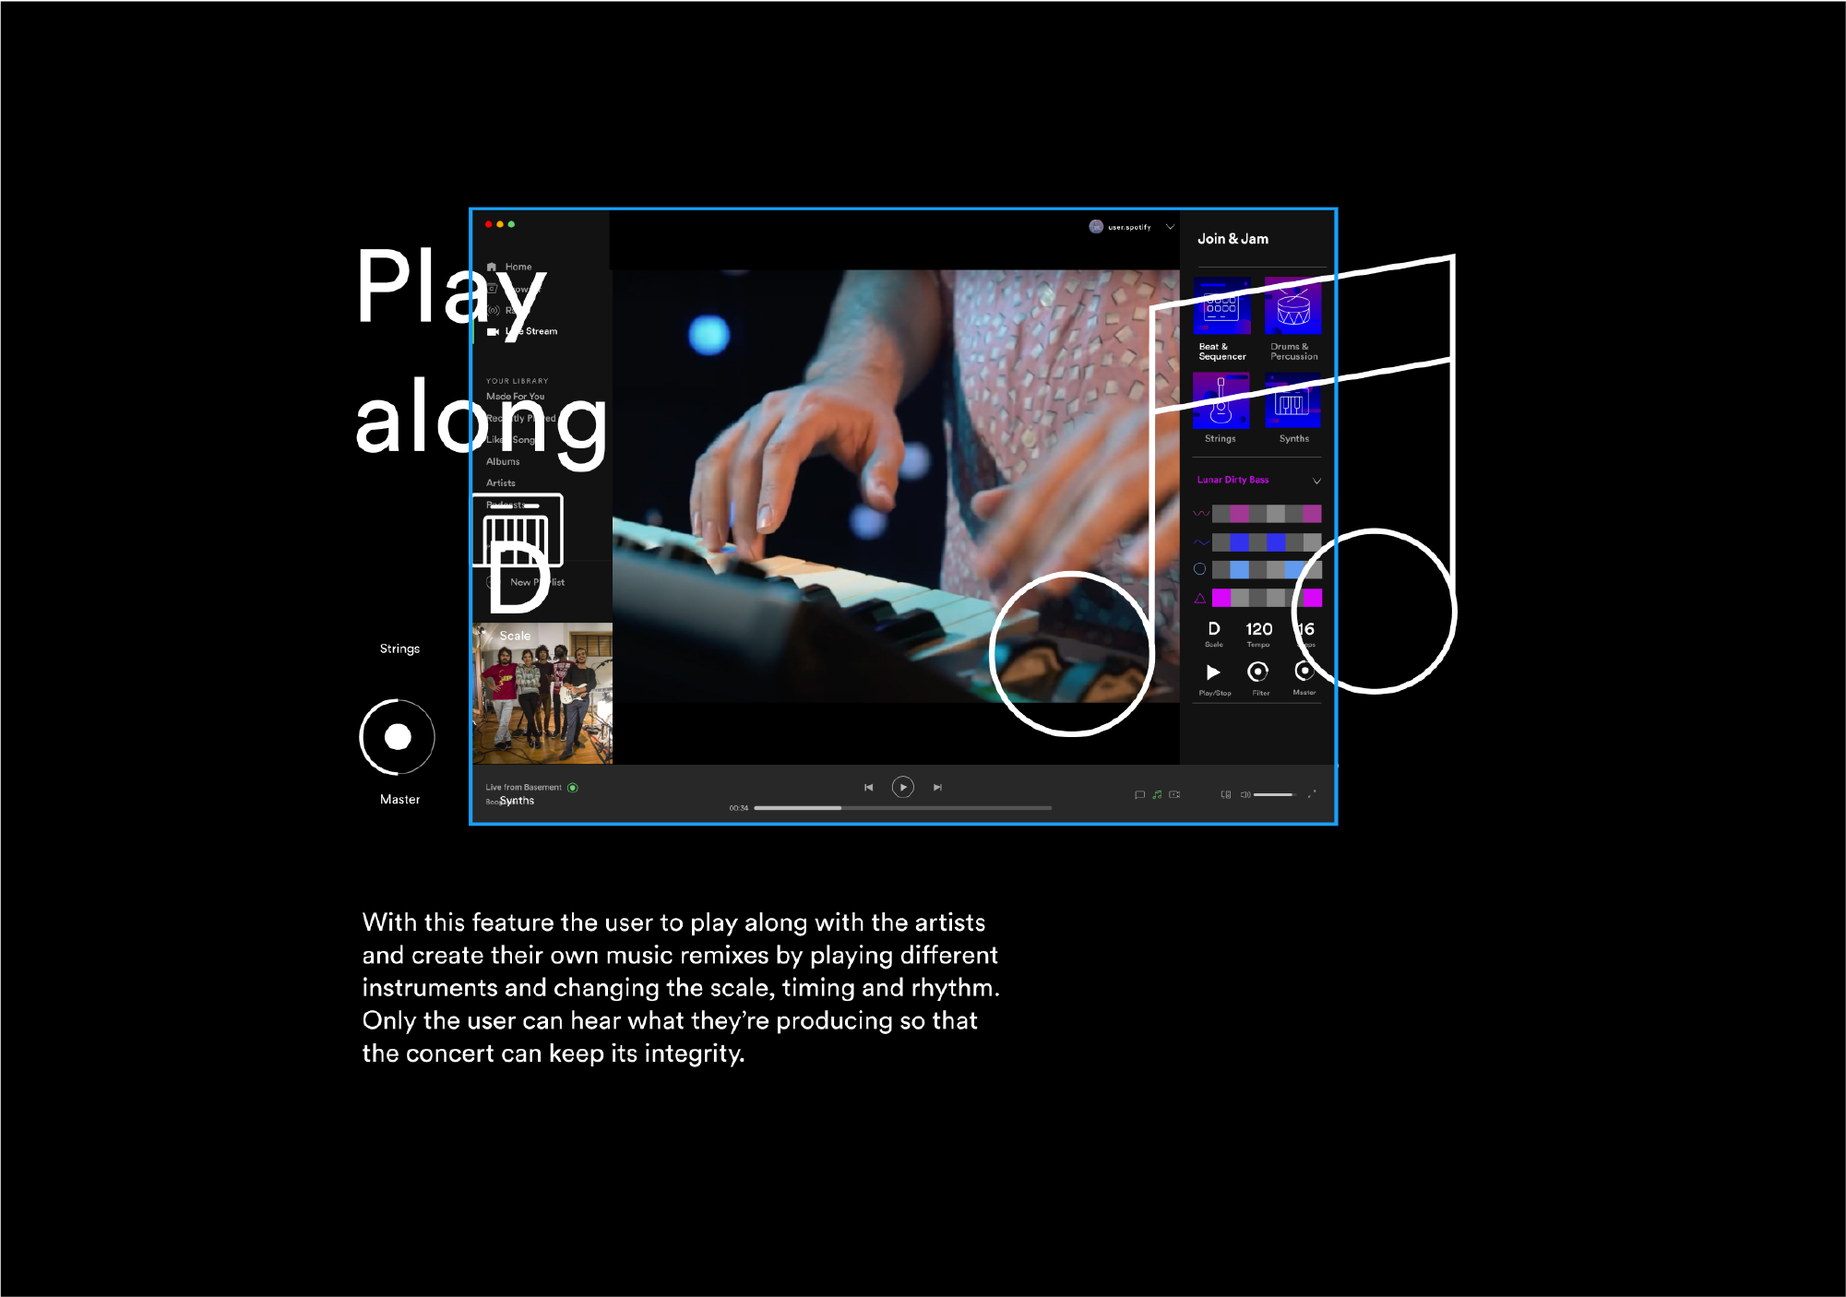
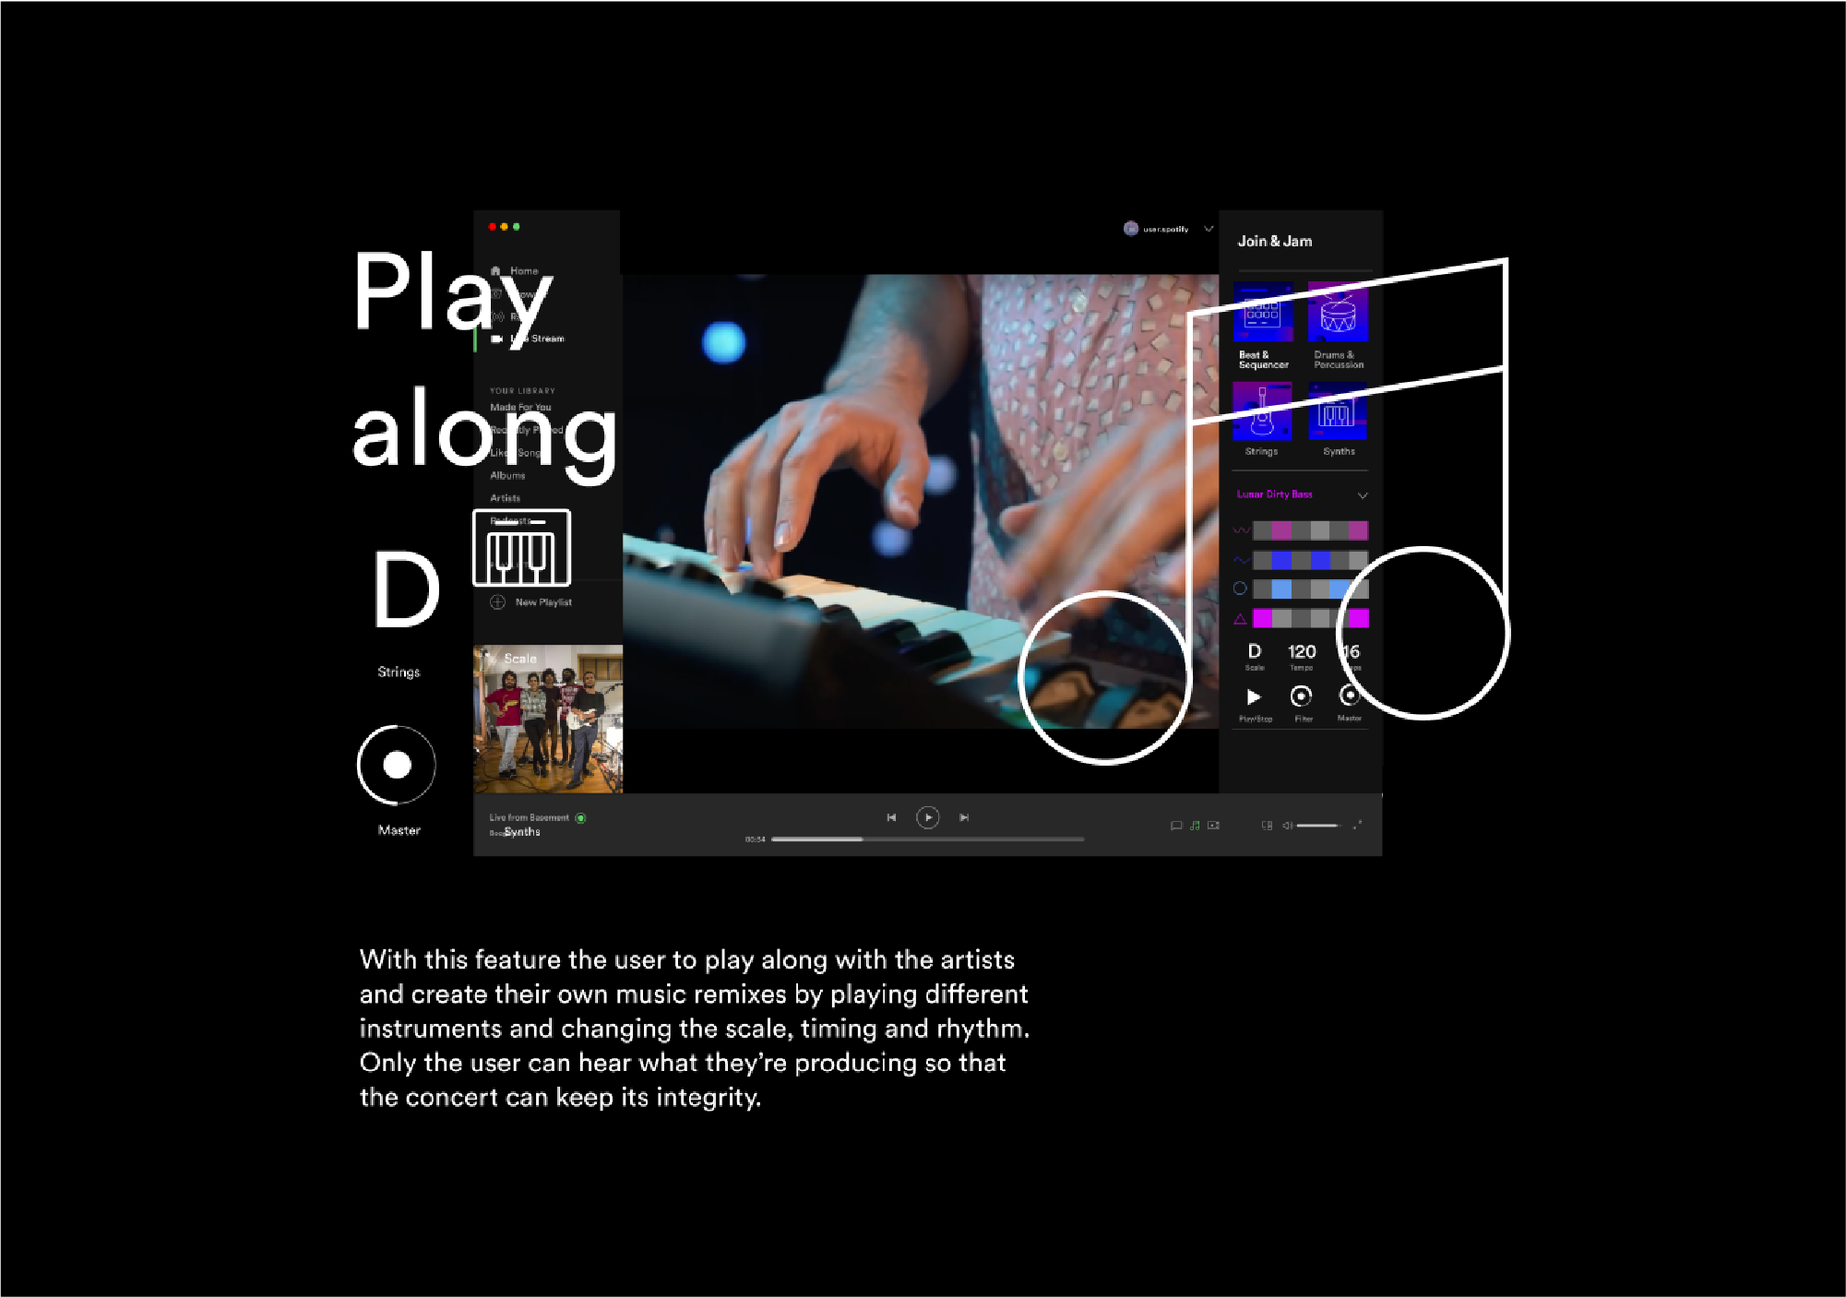
donut and spotify

Changed region(s): [[0.1859, 0.1529, 0.8366, 0.6728], [0.1859, 0.7034, 0.5577, 0.8563]]

diff --git a/_projects/spotify02.html b/_projects/spotify02.html
@@ -7,7 +7,74 @@ tags: Spotify
 description: Welcome to spotify streaming video feature. With this project we created a hub of online concerts and experiences with features that create unique moments putting the audience and artist closer.
 ---
 
-<figure>
-    <img src="../assets/img/alumni01.1.jpg" alt="alumni pages">
-    <figcaption>The goal of this project was to improve the experience of being a member of the Faculty of Fine-Arts of the University of Lisbon Alumni community. We, as a team of 5, worked together for a month to develop solutions for this segment within the faculty website.</figcaption>
-</figure>
+<div class="spotify wrapper">
+    <figure>
+        <img src="{{ "/assets/img/spotify02.jpg" | relative_url }}" alt="spotify tumbnail">
+        <figcaption>
+            <p>Spotify Streaming the feature of the future.</p>
+        </figcaption>
+    </figure>
+    <section class="spotify_section">
+        <div class="spotify_content">
+            <h2>About the project</h2>
+            <p>Welcome to spotify streaming video feature. With this project we created a hub of online concerts and experiences with features that create unique moments putting the audience and artist closer.</p>
+            <p><strong>My role:</strong> UI and UX Designer with especial focus on User Research</p>
+            <p><strong>Other team members:</strong> Marcelo Vendramel e Patrícia Custódio</p>
+        </div>
+        <div class="spotify_content">
+            <h2>Challenge and objective</h2>
+            <p>With the pandemic all concerts had to be cancelled. Streaming videos appeared as an alternative for artists to create more connection with the audience and also as
+            an additional source of income.</p>
+            <p>One line concerts and physical are totally different experiences so it’s positive to create a new feature in the area of streaming and also the connection between the audience and the artists can’t be replicated. But should be rethinked for sure.</p>
+            <p>Spotify is a one stop shop for streaming music and already has lists of concerts with external links to buy tickets. Spotify doesn’t only have music but also podcasts adding streaming would be a new form of entertainment that would add to their mission of unlocking the potential of human creativity and spirit of discovery.</p>
+        </div>
+        <div class="spotify_content">
+            <h2>Process</h2>
+            <div class="analysis">
+                <h3>Analysis and Discovery</h3> 
+                <p>We analysed more than 20 websites to help us understand the market and the users, their needs and goals and also we did some interviews and user flows.</p>
+                <p>We took all the research and separated it by themes to understand the main problems and how to get to the solution and developed some personas and responded to how might we’s that helped us get some good solutions.</p>
+            </div>
+            <div class="ideation">
+                <h3>Ideation</h3>
+                <p>After we analysed how to put the streams menu inside Spotify was time to explore all the potential of this medium.</p>
+                <ul>
+                    <li><strong>New formats:</strong>Clubs and Coffees, Meet and Great and Join and Jam.</li>
+                    <li><strong>The Chat:</strong>Allows the user to connect with other people that are watching the same experience and also with the artist. It creates a more intimate experience and enables them to express their feelings and thoughts live.</li>
+                    <li><strong>The PlayAlong:</strong>With this feature the user can play along with the artists and create their own music remixes by playing different instruments and changing the scale, timing and rhythm. Only the user can hear what they’re producing so that the concert can keep its integrity.</li>
+                    <li><strong>The Multi Cameras:</strong>In a normal concert setting fans are constrained by the site that they purchase. With the Multi-Cameras system they can change viewpoints and perspectives in the building. They can be closer to the singer, paddle down with the drummer or observe closely that one amazing guitar solo from their favorite musician.</li>
+                </ul>
+            </div>
+        </div>
+        <div class="spotify_content">
+            <h2>Final Soluction</h2>
+            <p>Streams: The Streams homepage has a menu with all the new formats.  We also added a video on top to make the page more dynamic and to encourage the user to explore more. We added a list of recommendations for most popular experiences like concerts or meet & greats.</p>
+            <p><strong>Virtual Concerts:</strong>Like the streams page we also added a video on the top alongside, filters, list of past popular concerts with a preview that users can rewatch, list of upcoming virtual concerts.</p>
+            <p><strong>Concerts:</strong>During the concert  the user has the option to watch it full screen and use the new features: chat, play along and multi-camera view.</p>
+            <p><strong>Payment:</strong>In the payment section we ask the user to choose the currency, number of tickets and the email where they want to receive confirmation of purchase. We also added cards with the different types of tickets so that the user can easily compare them.</p>
+            <p><strong>My tickets:</strong>Inside the profile we added the My Tickets page where the user can keep track of the tickets bought for upcoming and previous events. If the artist makes it possible the audience can rewatch a previous show.</p>
+    </section>
+    <section class="galery">
+        <h2>Galery</h2>
+        <figure>
+            <img src="{{ "/assets/img/spotify02.1.png" | relative_url }}" alt="spotify formats">
+            <figcaption>Spotify new formats.</figcaption>
+        </figure>
+        <figure>
+            <img src="{{ "/assets/img/spotify02.2.png" | relative_url }}" alt="spotify playalong feature">
+            <figcaption>Play-along feature</figcaption>
+        </figure>
+        <figure>
+            <img src="{{ "/assets/img/spotify02.3.png" | relative_url }}" alt="spotify chat feature">
+            <figcaption>
+                <p>Chat feature</p>
+            </figcaption>
+        </figure>
+        <figure>
+            <img src="{{ "/assets/img/spotify02.4.png" | relative_url }}" alt="spotify multicameras feature">
+            <figcaption>
+                <p>Multi-cameras feature.</p>
+            </figcaption>
+        </figure>
+    </section>
+</div>    

diff --git a/_projects/donut03.html b/_projects/donut03.html
@@ -7,7 +7,74 @@ tags: Donut
 description: This project development intends to create an interface, for both mobile and desktop aiming to promote and sell a specific product. The methodologies used seek to develop a practical, intuitive solution and provide a positive experience for the user.
 ---
 
-<figure>
-    <img src="../assets/img/alumni01.1.jpg" alt="alumni pages">
-    <figcaption>The goal of this project was to improve the experience of being a member of the Faculty of Fine-Arts of the University of Lisbon Alumni community. We, as a team of 5, worked together for a month to develop solutions for this segment within the faculty website.</figcaption>
-</figure>
+<div class="donut wrapper">
+    <figure>
+        <img src="{{ "/assets/img/donut03.jpg" | relative_url }}" alt="donut worry tumbnail">
+        <figcaption>
+            <p>Donut Worry the app that will make your day a little sweeter.</p>
+        </figcaption>
+    </figure>
+    <section class="donut_section">
+        <div class="donut_content">
+            <p>This project development intends to create an interface, for both mobile and desktop aiming to promote and sell a specific product.</p>
+            <p>The methodologies used seek to develop a practical, intuitive solution and provide a positive experience for the user</p>
+            <p><strong>My role:</strong> UI and UX Designer</p>
+        </div>
+        <div class="donut_content">
+            <h2>Challenge and objective</h2>
+            <p>The challenge was to select a physical product and design an online store that only sells that product, to create an online donut shop that contains the various interfaces associated with the product itself.</p>
+        </div>
+        <div class="donut_content">
+            <h2>Process</h2>
+            <div class="analysis">
+                <h3>Analysis and Discovery</h3> 
+                <p>We analysed more than 20 websites to help us understand the market and the users, their needs and goals and also we did some interviews and user flows.</p>
+                <p>We took all the research and separated it by themes to understand the main problems and how to get to the solution and developed some personas and responded to how might we’s that helped us get some good solutions.</p>
+            </div>
+            <div class="ideation">
+                <h3>Ideation</h3>
+                <p>After we analysed how to put the streams menu inside Spotify was time to explore all the potential of this medium.</p>
+                <ul>
+                    <li><strong>New formats:</strong>Clubs and Coffees, Meet and Great and Join and Jam.</li>
+                    <li><strong>The Chat:</strong>Allows the user to connect with other people that are watching the same experience and also with the artist. It creates a more intimate experience and enables them to express their feelings and thoughts live.</li>
+                    <li><strong>The PlayAlong:</strong>With this feature the user can play along with the artists and create their own music remixes by playing different instruments and changing the scale, timing and rhythm. Only the user can hear what they’re producing so that the concert can keep its integrity.</li>
+                    <li><strong>The Multi Cameras:</strong>In a normal concert setting fans are constrained by the site that they purchase. With the Multi-Cameras system they can change viewpoints and perspectives in the building. They can be closer to the singer, paddle down with the drummer or observe closely that one amazing guitar solo from their favorite musician.</li>
+                </ul>
+            </div>
+        </div>
+        <div class="donut_content">
+            <h2>Final Soluction</h2>
+            <p>With the development of the final mockup we can see the color schemes, content layouts, fonts, icons, navigation visuals, images, and the overall feeling of the future software product design and user experience. It’s really important to see the work coming to life. I tried to create mockups that are...</p>
+            <ul>
+                <li>Convincing</li>
+                <li>Realistic</li>
+                <li>Easy to revise</li>
+            </ul>
+            <p>And also they offer a great opportunity to study the results of the design decisions made previously.</p>
+        </div>
+    </section>
+    <section class="galery">
+        <h2>Galery</h2>
+        <figure>
+            <img src="{{ "/assets/img/donut03.1.png" | relative_url }}" alt="donut app mobile">
+            <figcaption>Donut Worry mobile version.</figcaption>
+        </figure>
+        <figure>
+            <img src="{{ "/assets/img/donut03.2.png" | relative_url }}" alt="donut app cart">
+            <figcaption>Donut Worry my cart page.</figcaption>
+        </figure>
+        <figure>
+            <img src="{{ "/assets/img/donut03.3.png" | relative_url }}" alt="donut app desktop">
+            <figcaption>
+                <p>Desktop version of the app Donut Worry.</p>
+            </figcaption>
+        </figure>
+        <figure>
+            <img src="{{ "/assets/img/donut03.4.png" | relative_url }}" alt="donut app about">
+            <figcaption>
+                <p>About of desktop version of the app Donut Worry.</p>
+            </figcaption>
+        </figure>
+    </section>
+</div>    
+     

diff --git a/_projects/alumni01.html b/_projects/alumni01.html
@@ -10,18 +10,17 @@ description: This project development intends to create an interface, for both m
 
 <div class="alumni wrapper">
     <figure>
-        <img src="{{ "/assets/img/alumni01.1.jpg" | relative_url }}" alt="alumni pages">
+        <img src="{{ "/assets/img/alumni01.1.jpg" | relative_url }}" alt="alumni tumbnail">
         <figcaption>
-            <p>Different pages of the new website proposal.</p>
+            <p>Alumni section of the website of the Faculty of Fine Arts</p>
         </figcaption>
     </figure>
-
     <section class="alumni_section">
         <div class="alumni_content">
             <h2>About the project</h2>
             <p>This project development intends to develop concrete proposals to improve the Alumni students' experience on the FBAUL website, according to their needs and indications.</p>
-            <p>My role: UI and UX Designer with special focus on User Research.</p>
-            <p>Other team members: Daniela Oliveira  Sofia Vintém, Susana Farinha e Vitor Vernilli</p>
+            <p><strong>My role:</strong> UI and UX Designer with special focus on User Research.</p>
+            <p><strong>Other team members:</strong> Daniela Oliveira  Sofia Vintém, Susana Farinha e Vitor Vernilli</p>
         </div>
         <div class="alumni_content">
             <h2>Challenge and objective</h2>
@@ -31,12 +30,12 @@ description: This project development intends to create an interface, for both m
         <div class="alumni_content">
         <h2>Process</h2>
             <div class="analysis">
-            <h3>Analysis and Discovery</h3> 
-            <p>During this first stage we did some website analysis, Information architecture and user flows so understand better what we were working on. But we also did some benchmarking, interviews and created personas to start building some ideias. All of this in association with the analysis of other preview projects and the data from the google analytics, help us create a new view on the project.</p>
+                <h3>Analysis and Discovery</h3> 
+                <p>During this first stage we did some website analysis, Information architecture and user flows so understand better what we were working on. But we also did some benchmarking, interviews and created personas to start building some ideias. All of this in association with the analysis of other preview projects and the data from the google analytics, help us create a new view on the project.</p>
             </div>
             <div class="ideation">
-            <h3>Ideation</h3>
-            <p>In stage two, we started to brainstorm and choose some ideas that could have some potential and finally we decided to implement 6 solutions that materialized through some sketches, wireframes and mockups.</p>
+                <h3>Ideation</h3>
+                <p>In stage two, we started to brainstorm and choose some ideas that could have some potential and finally we decided to implement 6 solutions that materialized through some sketches, wireframes and mockups.</p>
                 <ul>
                     <li>Exclusive area for the alumni</li>
                     <li>News and testimonies from alumni</li>
@@ -59,26 +58,23 @@ description: This project development intends to create an interface, for both m
     <section class="galery">
         <h2>Galery</h2>
         <figure>
-            <img src="{{ "/assets/img/alumni01.3.jpg" | relative_url }}" alt="Alumni Page">
+            <img src="{{ "/assets/img/alumni01.3.jpg" | relative_url }}" alt="alumni page">
             <figcaption>Alumni main page of the website.</figcaption>
         </figure>
-
         <figure>
-            <img src="{{ "/assets/img/alumni01.4.jpg" | relative_url }}" alt="Alumni Folio">
+            <img src="{{ "/assets/img/alumni01.4.jpg" | relative_url }}" alt="alumni folio">
             <figcaption>
                 <p>Folio of the projects created by the students.</p>
             </figcaption>
         </figure>
-
         <figure>
-            <img src="{{ "/assets/img/alumni01.5.jpg" | relative_url }}" alt="Alumni Newsletter">
+            <img src="{{ "/assets/img/alumni01.5.jpg" | relative_url }}" alt="alumni newsletter">
             <figcaption>
                 <p>New newsletter implemented on the footer.</p>
             </figcaption>
         </figure>
-
         <figure>
-            <img src="{{ "/assets/img/alumni01.6.jpg" | relative_url }}"" alt="Alumni News and Opportunites">
+            <img src="{{ "/assets/img/alumni01.6.jpg" | relative_url }}"" alt="alumni news and opportunites">
             <figcaption>
                 <p>Page of the news and opportunies.</p>
             </figcaption>

diff --git a/_layouts/home.html b/_layouts/home.html
@@ -15,25 +15,24 @@ title: project
             <cite><strong>Henri Matisse</strong></cite>	
         </div>
     </section>
-
     <section class="margarida_home">
         <div class="home_content">
             <figure>
-                <img src="{{ "/assets/img/creativecommunication.png" |relative_url }}" alt="margarida banner">
+                <img src="{{ "/assets/img/creativecommunication.png" |relative_url }}" alt="icon of creative communication">
             </figure>
             <h2>Creative Communication Design Solutions</h2>
             <p>Communication is one of the most important skills that a human being can have. We communicate all the time and in different ways and approaches. My work in the area of communication design tries to push the boundaries of communication, bring to life objects that speak for themselves.</p>
         </div>
         <div class="home_content">
             <figure>
-                <img src="{{ "/assets/img/productdesign.png" |relative_url }}" alt="margarida banner">
+                <img src="{{ "/assets/img/productdesign.png" |relative_url }}" alt="icon of product design">
             </figure>
             <h2>Product Design Building Projects</h2>
              <p>Communication Design and Product Design go hand in hand. However Product Design helded me create solutions that have a major impact on people's daily lives. Dealing with big problems helps me reflect upon real life solutions that can improve our life quality and our future in the world.</p>
         </div>
         <div class="home_content">
             <figure>
-                <img src="{{ "/assets/img/creativetools.png" |relative_url }}" alt="margarida banner">
+                <img src="{{ "/assets/img/creativetools.png" |relative_url }}" alt="icon of creative tools">
             </figure>
             <h2>Creative Tools as a medium for change</h2>
             <p>With different design tools, from photoshop to figma, or many others. I can improve my work in many ways. Refine and create simple, effective and intuitive solutions that combine a good structure with a depurated visual image that put the user on the first line.</p>

diff --git a/_includes/capacities.html b/_includes/capacities.html
@@ -1,0 +1,11 @@
+<h2>{{ site.data.capacities.docs_list_title }}</h2>
+
+<ul>
+{% for item in site.data.capacities.docs %}
+     <li>
+         <img src="{{ site.baseurl }}/assets/img/{{ item.image }}" alt="{{ item.alt }}">
+         <h3>{{ item.title }}</h3>
+         <p> {{ item.content-text }} </p>
+     </li>
+{% endfor %}
+</ul>

diff --git a/_includes/tools.html b/_includes/tools.html
@@ -1,0 +1,12 @@
+<h2>{{ site.data.tools.docs_list_title }}</h2>
+
+<ul>
+{% for item in site.data.tools.docs %}
+     <li>
+         <img src="{{ site.baseurl }}/assets/img/{{ item.image }}" alt="{{ item.alt }}">
+         <h3>{{ item.title }}</h3>
+         <p> {{ item.content-text }} </p>
+     </li>
+{% endfor %}
+</ul>
+
